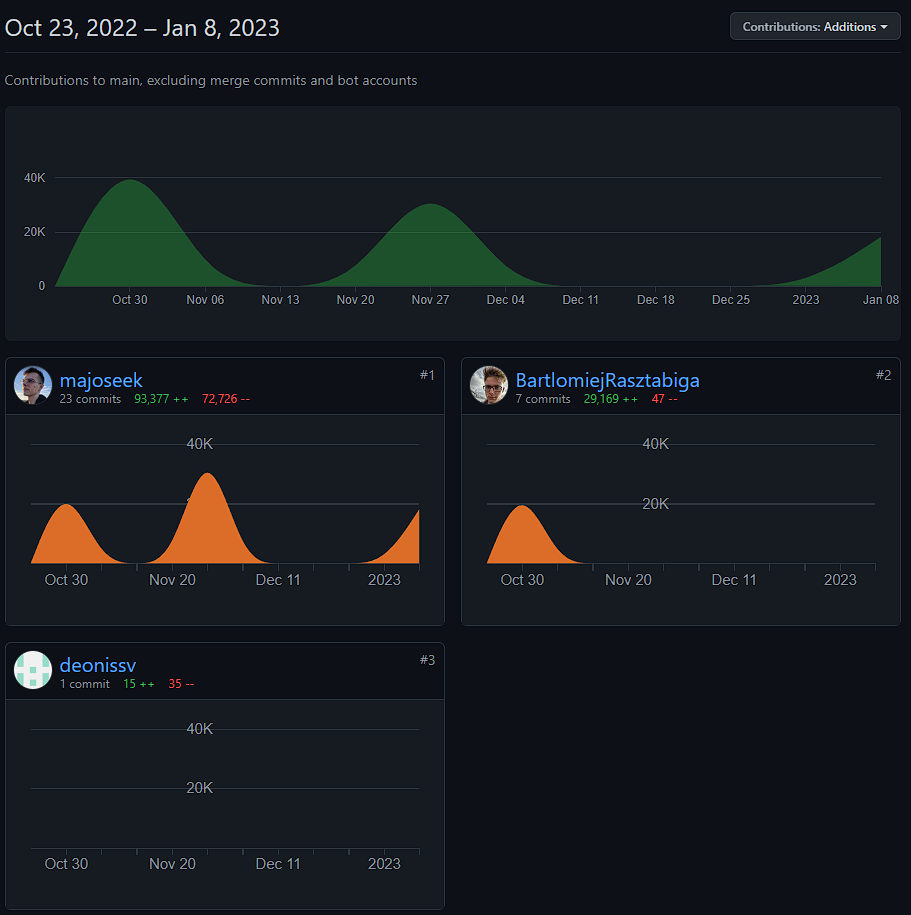
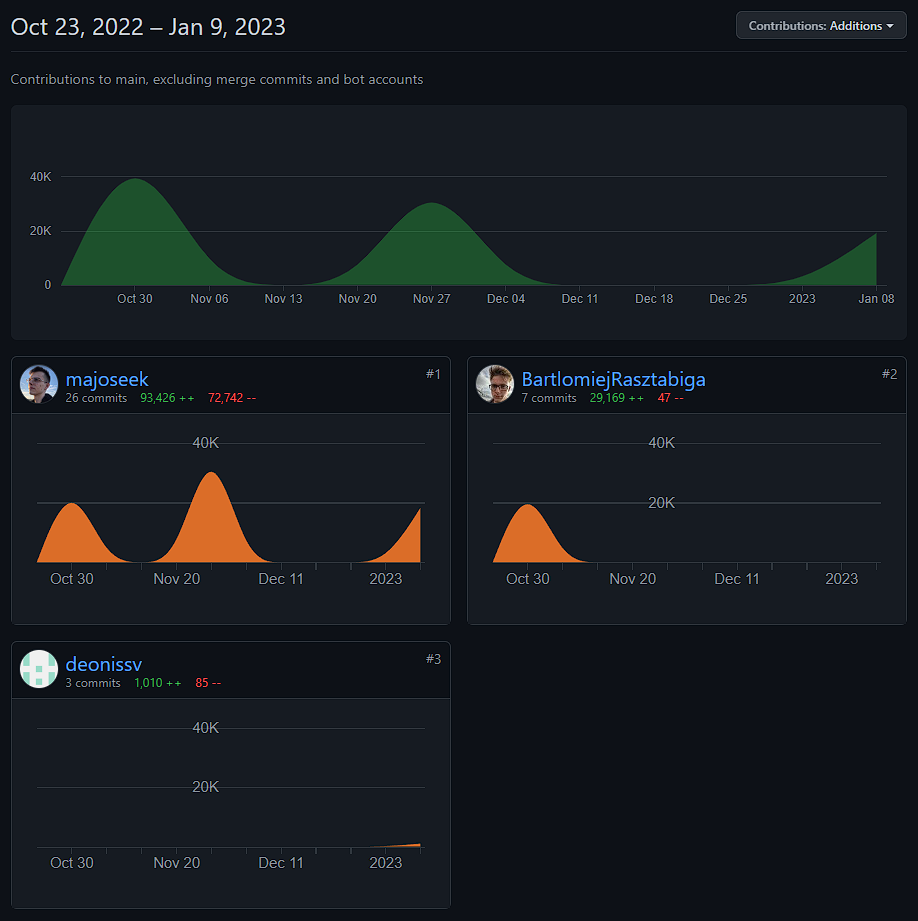
Update README

diff --git a/etap4/raport.md b/etap4/raport.md
@@ -22,6 +22,7 @@ Iteracja 4 (2 sty -> 9 sty):
 - Jako dostawca, mogę odebrać zamówienie rozpoczynając dostawę
 - Jako pracownik restauracji, mogę zaakceptować albo odrzucić opłacone zamówienie
 - Jako dostawca, mogę dostarczyć zamówienie kończąc dostawę
+- Testy e2e w aplikacji frontendowe
 
 Nieukończone:
 
@@ -113,6 +114,8 @@ Pliki konfiguracyjne znajdują się w repozytoriach:
 
 [https://linear.app/pis22z/project/pis-09dd886f8e2f/PIS](https://linear.app/pis22z/project/pis-09dd886f8e2f/PIS)
 
+Raporty z aplikacji TrackingTime znajdują się w ./trackingtime
+
 ### Wojciech Kołodziejak
 
 - [PIS-11](https://linear.app/pis22z/issue/PIS-11/przygotowac-liste-wymagan-funkcjonalnych-lub-userstories) 1:46h
@@ -148,7 +151,7 @@ Pliki konfiguracyjne znajdują się w repozytoriach:
 - [PIS-46](https://linear.app/pis22z/issue/PIS-46/be) 1:12h
 - [PIS-52](https://linear.app/pis22z/issue/PIS-52/be) 1:23h
 
-Raport z TrackingTime znajduje się w ./trackingtime/BartlomiejRasztabiga.csv
+
 
 ### Denys Savytskyi
 
@@ -158,11 +161,11 @@ Raport z TrackingTime znajduje się w ./trackingtime/BartlomiejRasztabiga.csv
 
 ## Raport z GitHub
 
-[https://github.com/PIS22Z/backend/graphs/contributors](https://github.com/PIS22Z/backend/graphs/contributors?from=2022-10-23&to=2023-01-08&type=a)
+[https://github.com/PIS22Z/backend/graphs/contributors](https://github.com/PIS22Z/backend/graphs/contributors?from=2022-10-23&to=2023-01-09&type=a)
 
 ![github_contributions_backend.png](github_contributions_backend.png)
 
-[https://github.com/PIS22Z/frontend/graphs/contributors](https://github.com/PIS22Z/frontend/graphs/contributors?from=2022-10-23&to=2023-01-08&type=a)
+[https://github.com/PIS22Z/frontend/graphs/contributors](https://github.com/PIS22Z/frontend/graphs/contributors?from=2022-10-23&to=2023-01-09&type=a)
 
 ![github_contributions_frontend.png](github_contributions_frontend.png)
 
@@ -205,3 +208,44 @@ Pokrycie: 91.2%
 [PR-11](https://sonarcloud.io/component_measures?id=PIS22Z_backend&pullRequest=11&metric=new_coverage&view=list)
 
 Pokrycie: 92.6%
+
+### Frontend
+
+Pokrycie testami wynosi 97,.2%
+
+
+```
+----------------------------|---------|----------|---------|---------|--------------------
+File                        | % Stmts | % Branch | % Funcs | % Lines | Uncovered Line #s  
+----------------------------|---------|----------|---------|---------|--------------------
+All files                   |   97.02 |    88.75 |   92.04 |   97.43 |                    
+ components/Loader          |     100 |      100 |     100 |     100 |                    
+  Loader.styles.ts          |     100 |      100 |     100 |     100 |                    
+  Loader.tsx                |     100 |      100 |     100 |     100 |                    
+  index.ts                  |     100 |      100 |     100 |     100 |                    
+ components/RestaurantsList |     100 |      100 |     100 |     100 |                    
+  RestaurantsList.styles.ts |     100 |      100 |     100 |     100 |                   
+  RestaurantsList.tsx       |     100 |      100 |     100 |     100 |                   
+  index.ts                  |     100 |      100 |     100 |     100 |                   
+ pages/DeliveryPage         |     100 |      100 |     100 |     100 |                   
+  DeliveryPage.styles.ts    |     100 |      100 |     100 |     100 |                   
+  DeliveryPage.tsx          |     100 |      100 |     100 |     100 |                   
+  index.ts                  |     100 |      100 |     100 |     100 |                   
+ pages/KitchenPage          |   85.41 |    72.72 |   69.56 |   86.66 |                   
+  KitchenPage.styles.ts     |     100 |      100 |     100 |     100 |                   
+  KitchenPage.tsx           |   84.09 |    66.66 |   68.18 |   85.71 | 43,48-49,64,71,136
+  index.ts                  |     100 |      100 |     100 |     100 |                   
+ pages/PaymentPage          |     100 |      100 |     100 |     100 |                   
+  PaymentPage.styles.ts     |     100 |      100 |     100 |     100 |                   
+  PaymentPage.tsx           |     100 |      100 |     100 |     100 |                   
+  index.ts                  |     100 |      100 |     100 |     100 |                   
+ pages/ProductsPage         |     100 |     87.5 |     100 |     100 |                   
+  ProductsPage.styles.ts    |     100 |      100 |     100 |     100 |                   
+  ProductsPage.tsx          |     100 |       85 |     100 |     100 | 41-47,129         
+  index.ts                  |     100 |      100 |     100 |     100 |                   
+ redux/reducers             |   96.42 |    66.66 |     100 |     100 |                   
+  productSlice.ts           |   96.42 |    66.66 |     100 |     100 | 28,37,63          
+----------------------------|---------|----------|---------|---------|--------------------
+```
+
+Raport z Jest znajduje się w ./jestTestReport.txt
